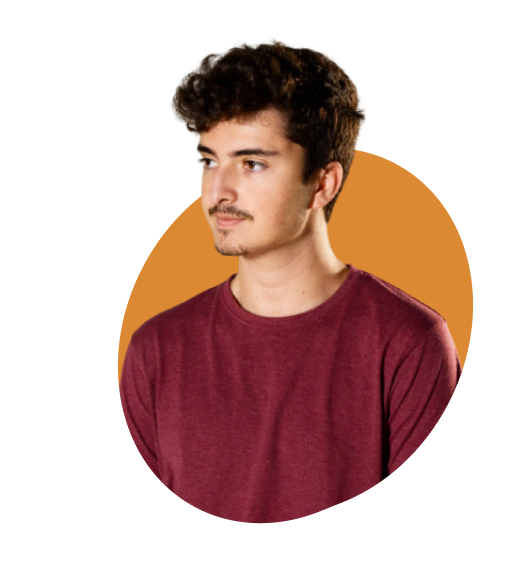
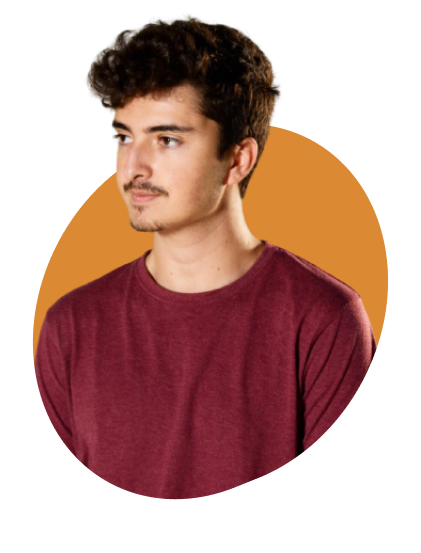
add skills left and work section

Changed region(s): [[0.0618, 0.0307, 0.9264, 0.9222], [0.4014, 0.6763, 0.4632, 0.7993], [0.5558, 0.6456, 0.5867, 0.7071]]

diff --git a/src/components/Header.vue b/src/components/Header.vue
@@ -1,19 +1,19 @@
 <template>
-    <div class="w-[1200px] h-[650px] pt-32 pl-10 m-auto flex justify-around">
+    <div class="max-w-[1200px] pt-32 m-auto flex justify-around flex-col-reverse items-center md:flex-row ">
         
-        <div id="left" class="flex flex-col justify-between h-[400px]">
-            <div class="mt-16">
-                <div class="text-[58px] font-bold text-dark leading-[64px]">
+        <div id="left" class="flex flex-col justify-between md:h-[400px] items-center md:items-start text-center md:text-start">
+            <div class="md:mt-8">
+                <div class=" text-3xl md:text-5xl lg:text-[58px] font-bold text-dark leading-8 md:leading-[48px] lg:leading-[64px]">
                     Hi! I'm <span class="text-main">Nil Valero</span> <br/>
                     Frontend Developer
                 </div>
 
-                <div id="buttons" class="flex gap-5 mt-6">
-                    <button class="px-6 py-3 bg-main rounded-md text-white">Contact</button>
-                    <a href="/files/DNI.pdf" target="_blank" class="px-6 py-3 bg-white rounded-md text-main border-2 border-main"><i class="fa-solid fa-file-arrow-down mr-2"></i>Download CV</a>
+                <div id="buttons" class="flex justify-center md:justify-start gap-2 md:gap-5 mt-6">
+                    <a href="#contact-section" class="px-6 py-3 bg-main rounded-md text-white hover:scale-105 transition-all">Contact</a>
+                    <a href="/files/DNI.pdf" target="_blank" class="px-6 py-3 bg-white rounded-md text-main border-2 border-main hover:scale-105 transition-all"><i class="fa-solid fa-file-arrow-down mr-2"></i>Download CV</a>
                 </div>
             </div>
-            <div class="flex gap-5 text-dark text-3xl">
+            <div class="flex gap-5 text-dark text-3xl mt-10">
                 <a href="https://linkedin.com/in/nil-valero-pi-69828b1b9" target="_blank"><i class="fa-brands fa-linkedin hover:text-main transition-all"></i></a>
                 <a href="https://github.com/nvalero13" target="_blank"><i class="fa-brands fa-square-github hover:text-main transition-all"></i></a>
                 <a href="https://www.behance.net/nilvalero" target="_blank"><i class="fa-brands fa-square-behance hover:text-main transition-all"></i></a>
@@ -21,7 +21,7 @@
         </div>
 
         <div>
-            <img class="h-[500px]" src="../assets/portrait.png" alt="Portrait">
+            <img class="max-w-[300px] object-contain" src="../assets/portrait.png" alt="Portrait">
         </div>
 
 

diff --git a/src/components/Work.vue b/src/components/Work.vue
@@ -1,21 +1,66 @@
 <template>
-     <div class="max-w-[1200px] m-auto flex flex-col items-center">
-        <div class="mt-16 text-main text-2xl flex flex-col items-center">
-            <h2>Work</h2>
-            <hr class="mt-1 w-10 border-b-2 border-main" />
-        </div>
-
-        <div class="flex flex-wrap justify-center gap-5 mt-10 mx-10">
-            <div v-for="skill in skills" class="py-2 px-5 border-2 border-dark  rounded-md text-dark hover:border-main hover:text-main transition-all"><p>{{ skill }}</p>
-            </div>
-        </div>
+  <div class="max-w-[1200px] m-auto flex flex-col items-center mb-16">
+    <div class="mt-16 text-main text-2xl flex flex-col items-center">
+      <h2>Work</h2>
+      <hr class="mt-1 w-10 border-b-2 border-main" />
     </div>
+
+    <div
+      
+      class="grid sm:grid-cols-1 md:grid-cols-2 lg:grid-cols-3 gap-5 mt-10 mx-10"
+    >
+    
+      <article v-for="project in projects"
+        class="w-[300px] cursor-pointer hover:shadow-lg hover:scale-105 transition-all"
+      >
+      <a :href="project.link">
+        <img
+          class="shadow-inner h-48 w-full object-cover rounded-t-md"
+          :src="project.img"
+          :alt="`${project.title} Image`"
+        />
+        <div
+          class="border-t-4 border-main p-3 shadow-md h-48 flex flex-col justify-between text-dark rounded-b-md"
+        >
+          <div>
+            <h3 class="text-xl font-bold my-1">{{ project.title }}</h3>
+            <p>{{ project.desc }}</p>
+          </div>
+
+          <p class="text-main">{{ project.tags }}</p>
+        </div>
+        </a>
+      </article>
+ 
+    </div>
+  </div>
 </template>
 
 <script setup>
+import { ref } from "vue";
 
+const projects = ref([
+  {
+    img: "src/assets/paper-bag.png",
+    title: "Paper Bag",
+    desc: "A paper bag raffle maker with funny animations",
+    link: "https://github.com/nvalero13/paper-bag",
+    tags: "HTML, CSS & Javascript",
+  },
+  {
+    img: "src/assets/tudu.png",
+    title: "Tudú",
+    desc: "Task manager",
+    link: "https://github.com/nvalero13/ironhack-final-project",
+    tags: "Vue, Supabase, Tailwind",
+  },
+  {
+    img: "src/assets/met.png",
+    title: "Met",
+    desc: "Met Museum Gallery",
+    tags: "React, API",
+  },
+]);
 </script>
 
-<style scoped>
-
-</style>
+<style scoped></style>

diff --git a/src/components/Skills.vue b/src/components/Skills.vue
@@ -1,5 +1,5 @@
 <template>
-  <div @mousemove="followMouse" class="max-w-[1200px] m-auto flex flex-col items-center">
+  <div @mousemove="followMouse" class="max-w-[1200px] m-auto flex flex-col items-center mb-16">
     <div class="mt-16 text-main text-2xl flex flex-col items-center">
       <h2>Skills</h2>
       <hr class="mt-1 w-10 border-b-2 border-main" />
@@ -20,7 +20,7 @@
     <div
       ref="followDiv"
       v-show = "showDescription"
-      class="absolute w-64 border-2 bg-white py-3 px-5 border-dark rounded-md pointer-events-none"
+      class="absolute w-64 border-2 bg-white py-3 px-5 border-dark text-dark rounded-md pointer-events-none"
     >
         {{ desc }}
     </div>
@@ -42,17 +42,16 @@ const skills = ref([
   {title: "React Native", desc:"I have developed 2 apps using Expo framework."},
   {title: "Tailwind", desc:"I am familiar with Bootstrap, but I prefer the freedom that Tailwind CSS gives me in terms of design."},
   {title: "Wordpress", desc:"I have used Wordpress to create an e-commerce website."},
-  "Self-taught",
-  "Passion for development",
-  "Fast learner",
-  "mySQL",
-  "phpMyAdmin",
-  "Supabase",
-  "Relational BBDD",
-  "HCI basics",
-  "Design",
-  "Versatile",
-  "Adaptable",
+  {title: "Supabase", desc:"I have used Supabase in multiple projects for user authentication, table creation, and using buckets."},
+  {title: "mySQL", desc:"I know the basics of SQL and I have experience with phpMyAdmin."},
+  {title: "Relational BBDD", desc:"I have knowledge of relational database model architecture."},
+  {title: "Self-taught", desc:"I am self-sufficient and have ease in finding resources to learn independently."},
+  {title: "Passion for development", desc:"I enjoy development. I enjoy programming and I am always working on personal projects."},
+  {title: "Fast learner", desc:"I have ease in learning new concepts and adapting to new dynamics."},
+  {title: "HCI basics", desc:"I know the fundamentals of HCI, I am familiar with UX/UI design and I always try to apply it in my projects."},
+  {title: "Design", desc:"I have knowledge of design in general and I am aware of current trends."},
+  {title: "Versatile", desc:"Maybe I do not reach excellence in everything but I adapt notably in almost everything."},
+
 ]);
 
 const followDiv = ref(null);

diff --git a/src/components/About.vue b/src/components/About.vue
@@ -1,24 +1,24 @@
 <template>
-  <div class="bg-main max-w-[1200px] rounded-lg sm:mx-5 xl:m-auto flex flex-col items-center">
-    <div class="mt-16 text-white text-2xl flex flex-col items-center">
+  <div class="max-w-[1200px] rounded-lg sm:mx-5 xl:m-auto flex flex-col items-center">
+    <div class="mt-16 text-main text-2xl flex flex-col items-center">
       <h2>About</h2>
-      <hr class="mt-1 w-10 border-b-2 border-white" />
+      <hr class="mt-1 w-10 border-b-2 border-main" />
     </div>
 
-    <div class="flex flex-row gap-6 w-10/12 mt-10 mb-16">
-      <div class="w-4/12">
-        <img class="w-full" src="../assets/portrait2.png" alt="" />
+    <div class="flex flex-col md:flex-row items-center md:items-start lg:items-center gap-6 w-full mt-2 mb-16">
+      <div class="lg:w-5/12 md:w-6/12 w-10/12">
+        <img class="w-full min-w-[300px] hover:rotate-3" src="../assets/portrait2.png" alt="" />
       </div>
-      <div class="w-8/12">
-        <p class="text-white">
+      <div class="lg:w-7/12 md:w-6/12 w-10/12">
+        <p class="text-dark">
           I am passionate about all things related to
           multimedia creation. 
-          <br/>
           From animation, design, video games, movies, to
-          programming, I enjoy exploring it all. I studied Multimedia at CITM UPC, and it was there that I discovered web programming and
+          programming, I enjoy exploring it all.
+          <br/><br/> I studied Multimedia at <a href="https://www.citm.upc.edu/" target="_blank" class="text-main">CITM UPC</a>, and it was there that I discovered web programming and
           the big picture surrounding it. I found it easier to understand and
           learn than other subjects. Since then, I've been self-taught and have
-          taken various courses and completed a bootcamp at Ironhack in frontend
+          taken various courses and completed a bootcamp at <a href="https://www.ironhack.com/es/barcelona" target="_blank" class="text-main">Ironhack</a> in frontend
           development. 
           <br/><br/>
           I enjoy creating
@@ -31,6 +31,7 @@
           challenges and opportunities in the tech industry. 
           My goal is to grow as a professional and learn backend skills.
         </p>
+        
       </div>
     </div>
   </div>

diff --git a/src/components/Nav.vue b/src/components/Nav.vue
@@ -1,6 +1,6 @@
 <template>
-    <div class="w-full border-b-2 border-main bg-white bg-opacity-70 backdrop-blur-xl backdrop-brightness-125 fixed">
-        <div class="m-auto w-[1200px] py-6 flex items-center justify-between text-dark text-lg">
+    <div class="w-full border-b-2 border-main bg-white bg-opacity-50 backdrop-blur-lg backdrop-brightness-125 z-10 fixed">
+        <div class="m-auto max-w-[1248px] px-6 py-6 flex items-center justify-between text-dark text-lg">
             <a href="#header-section" class="font-black">Nil Valero</a>
             <nav class="flex gap-10 font-bold ">
                 <a v-for="navLink in navLinks" :href="navLink.href" class="border-b-2 border-transparent cursor-pointer hover:border-b-2 hover:border-main transition-all">{{ navLink.title }}</a>
